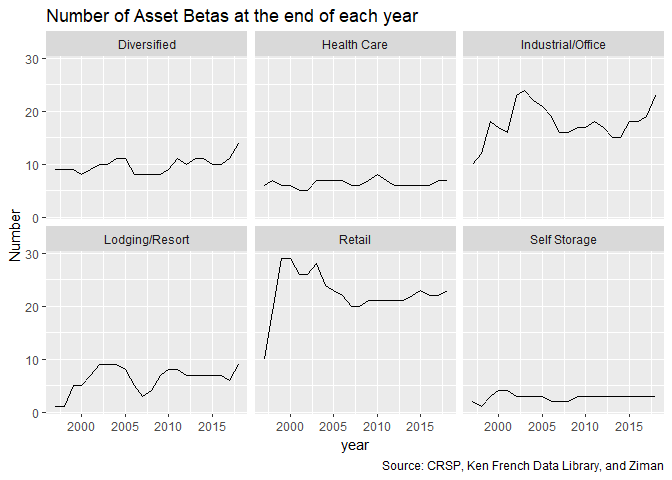
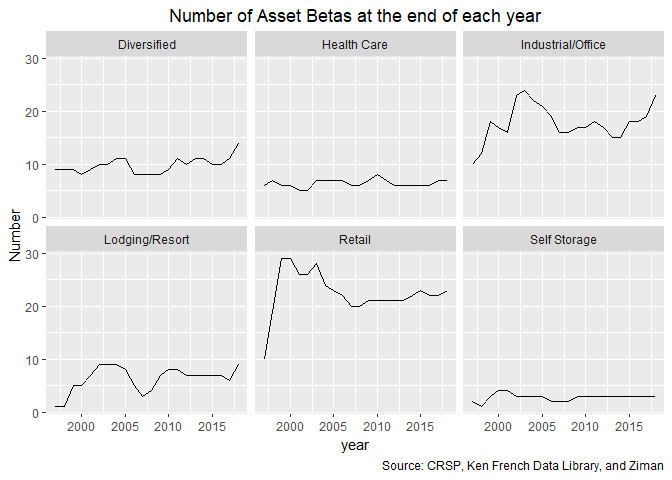
Centering plot title

Changed region(s): [[0.0625, 0.0, 0.8125, 0.0625]]

diff --git a/ECC.md b/ECC.md
@@ -27,45 +27,7 @@ The next step would be calculate the lambdas. I would have three type of lambdas
 Check the number of assets in our sample each month and at the end of each year.
 ================================================================================
 
-![](ECC_files/figure-markdown_github/unnamed-chunk-6-1.png)![](ECC_files/figure-markdown_github/unnamed-chunk-6-2.png)![](ECC_files/figure-markdown_github/unnamed-chunk-6-3.png)
-
-    ## List of 1
-    ##  $ plot.title:List of 11
-    ##   ..$ family       : NULL
-    ##   ..$ face         : NULL
-    ##   ..$ colour       : NULL
-    ##   ..$ size         : NULL
-    ##   ..$ hjust        : num 0.5
-    ##   ..$ vjust        : NULL
-    ##   ..$ angle        : NULL
-    ##   ..$ lineheight   : NULL
-    ##   ..$ margin       : NULL
-    ##   ..$ debug        : NULL
-    ##   ..$ inherit.blank: logi FALSE
-    ##   ..- attr(*, "class")= chr [1:2] "element_text" "element"
-    ##  - attr(*, "class")= chr [1:2] "theme" "gg"
-    ##  - attr(*, "complete")= logi FALSE
-    ##  - attr(*, "validate")= logi TRUE
-
-![](ECC_files/figure-markdown_github/unnamed-chunk-6-4.png)
-
-    ## List of 1
-    ##  $ plot.title:List of 11
-    ##   ..$ family       : NULL
-    ##   ..$ face         : NULL
-    ##   ..$ colour       : NULL
-    ##   ..$ size         : NULL
-    ##   ..$ hjust        : num 0.5
-    ##   ..$ vjust        : NULL
-    ##   ..$ angle        : NULL
-    ##   ..$ lineheight   : NULL
-    ##   ..$ margin       : NULL
-    ##   ..$ debug        : NULL
-    ##   ..$ inherit.blank: logi FALSE
-    ##   ..- attr(*, "class")= chr [1:2] "element_text" "element"
-    ##  - attr(*, "class")= chr [1:2] "theme" "gg"
-    ##  - attr(*, "complete")= logi FALSE
-    ##  - attr(*, "validate")= logi TRUE
+![](ECC_files/figure-markdown_github/unnamed-chunk-6-1.png)![](ECC_files/figure-markdown_github/unnamed-chunk-6-2.png)![](ECC_files/figure-markdown_github/unnamed-chunk-6-3.png)![](ECC_files/figure-markdown_github/unnamed-chunk-6-4.png)
 
 Use the Current Month Lambda for Equity Cost of Capita
 ======================================================
